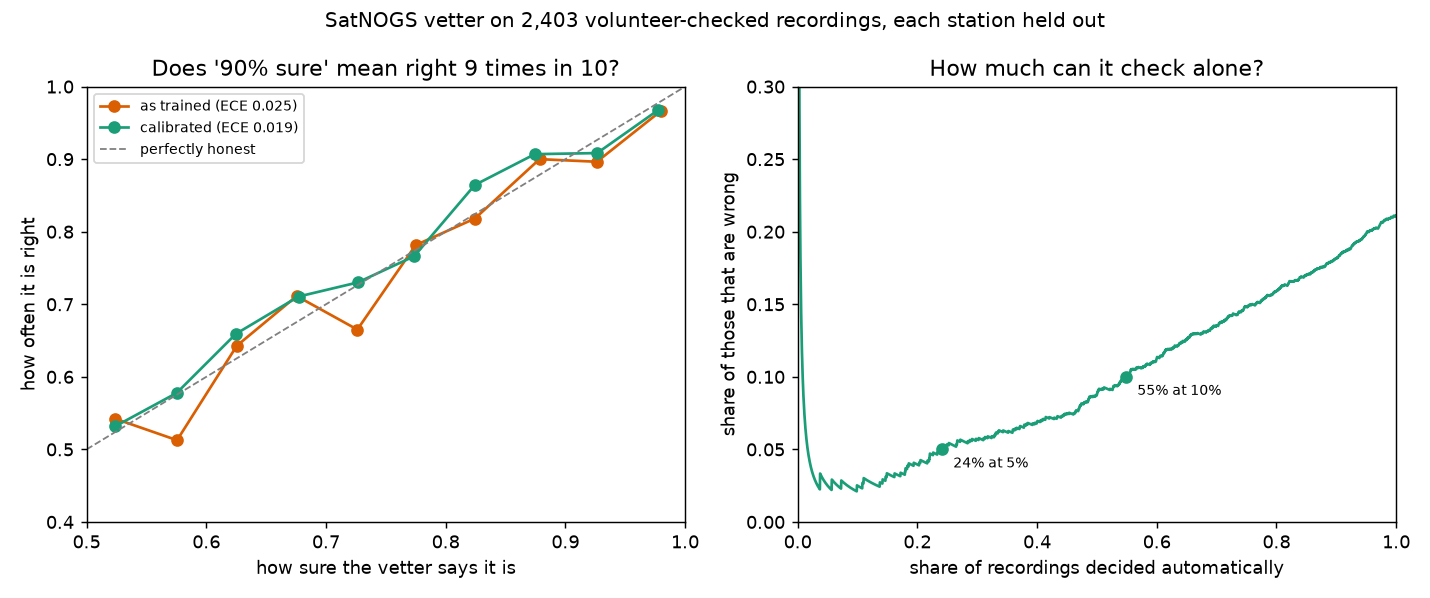
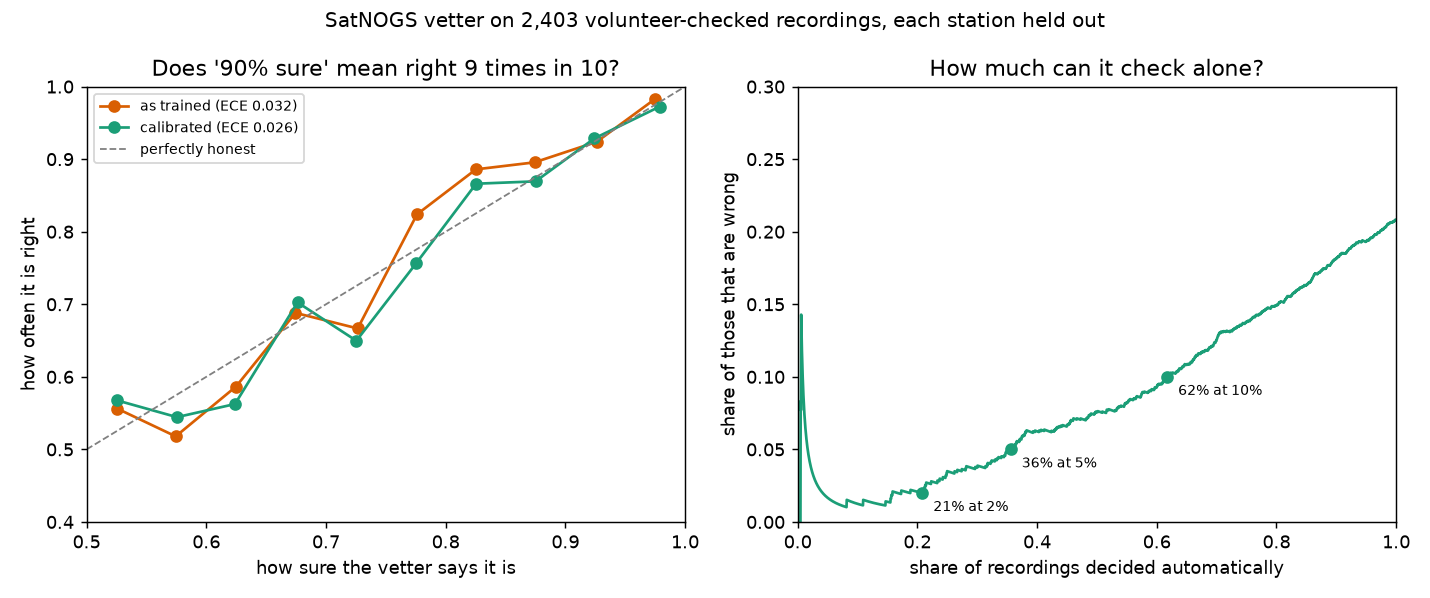
The app now decides with the random forest and the CNN together
VetterBundle gains the 2-D ResNet CNN: five out-of-fold trainings (whole
stations held out) give honest combined scores, and a final CNN is
trained on everything (early-stopped on held-out stations). The app
averages the two models' probabilities and temperature-scales the
result (T = 0.92: the average was slightly under-confident). The reasons
in words still come from the forest's measurements. A missing or damaged
CNN file falls back to the forest alone; --no-cnn builds that.

On 2,403 recordings, stations held out: AUROC 0.866 -> 0.879; decided
alone at <=5% error 29% -> 38% (range 20-59%), at <=1% 0% -> 19%. At the
app's thresholds: 42% decided alone, 5.8% of those wrong (was 37%, 6.1%).
Loading the model with PyTorch takes 0.9 s; scoring 75 recordings 0.3 s.

diff --git a/satrecovery/vetting/bundle.py b/satrecovery/vetting/bundle.py
@@ -3,8 +3,11 @@
 Training needs thousands of volunteer-checked waterfalls (hundreds of MB).
 Using the result needs only a few things, all saved together here:
 
-* the forest itself;
-* the explainer's typical values (for the reasons in words);
+* the forest itself, and the CNN that reads the waterfall picture (their
+  probabilities are averaged: the six-model comparison found the pair
+  better than either alone, on every seed);
+* the explainer's typical values (for the reasons in words; these come
+  from the forest's measurements);
 * the **out-of-fold** scores of every training observation -- each from a
   forest that never saw that observation's station -- with the
   volunteers' answers, so "error when sure" and "share it can check
@@ -55,6 +58,49 @@ def apply_temperature(probability: np.ndarray, temperature: float) -> np.ndarray
     return np.where(says_signal, calibrated, 1 - calibrated)
 
 
+CNN_FILE = "vetter_cnn.pt"
+
+
+def waterfall_images(observations, cache: ArtifactCache) -> np.ndarray:
+    """Normalised waterfalls at the CNN's 128 x 128 (2 x 2 averaging of the stored 256 x 256)."""
+    from .dataset import normalise
+
+    stack = []
+    for obs in observations:
+        power = normalise(cache.waterfall(obs).power)
+        height, width = power.shape
+        stack.append(power[:height // 2 * 2, :width // 2 * 2]
+                     .reshape(height // 2, 2, width // 2, 2).mean(axis=(1, 3))[None])
+    return np.stack(stack).astype(np.float32) if stack else np.empty((0, 1, 128, 128), np.float32)
+
+
+def train_cnn(images: np.ndarray, targets: np.ndarray, groups: np.ndarray, epochs: int = 30, seed: int = 0):
+    """A WaterfallVetter, early-stopped on a slice of stations it does not train on."""
+    from sklearn.model_selection import GroupShuffleSplit
+
+    from .model import WaterfallVetter
+
+    fit, val = next(GroupShuffleSplit(n_splits=1, test_size=0.15, random_state=seed)
+                    .split(images, targets, groups))
+    model = WaterfallVetter(seed=seed)
+    model.fit(images[fit], targets[fit], validation=(images[val], targets[val]), epochs=epochs,
+              verbose=False, patience=6)
+    return model
+
+
+def cnn_out_of_fold(images: np.ndarray, targets: np.ndarray, groups: np.ndarray, folds: int = 5,
+                    epochs: int = 30, seed: int = 0, progress=None) -> np.ndarray:
+    """P(signal) from a CNN that never saw that recording's station, for every recording."""
+    from sklearn.model_selection import GroupKFold
+
+    out = np.full(len(targets), 0.5)
+    for k, (train, test) in enumerate(GroupKFold(folds).split(images, targets, groups), 1):
+        out[test] = train_cnn(images[train], targets[train], groups[train], epochs, seed).predict_proba(images[test])
+        if progress:
+            progress(k, folds)
+    return out
+
+
 #: Observations worth showing in a demo (each explained by the orbit physics).
 SHOWCASE = (15489000, 15490378)
 
@@ -69,25 +115,48 @@ class VetterBundle:
     showcase: tuple[Observation, ...] = ()
     temperature: float = 1.0          # TemperatureScaling (the original project's), fitted on out-of-fold
     oof_station: np.ndarray | None = None
+    cnn: object | None = None         # a WaterfallVetter, or None: forest alone
+    oof_forest: np.ndarray | None = None   # the forest's own out-of-fold scores, for comparison
 
     FILES = ("vetter_bundle.pt", "vetter_bundle.npz", "vetter_bundle.json")
 
     # ------------------------------------------------------------------
     @classmethod
-    def train(cls, observations: Iterable[Observation], cache: ArtifactCache, progress=None) -> "VetterBundle":
+    def train(cls, observations: Iterable[Observation], cache: ArtifactCache, progress=None,
+              cnn: bool = True, epochs: int = 30, cnn_progress=None) -> "VetterBundle":
         labelled = [o for o in observations if o.is_trainable]
         kept, features = FeatureStore(cache).get(labelled, progress)
         if len(kept) < 50:
             raise ValidationError("observations", len(kept), "need at least 50 labelled, downloaded waterfalls")
         targets = np.array([1 if o.waterfall_label is WaterfallLabel.SIGNAL else 0 for o in kept])
-        probability = out_of_fold(features, targets, [o.ground_station for o in kept])
+        stations = np.array([o.ground_station if o.ground_station is not None else -1 for o in kept])
+        forest_oof = out_of_fold(features, targets, stations)
         model = FeatureVetter()
         model.fit_features(features, targets)
         explainer = Explainer(features, targets, model.importances())
         showcase = tuple(o for o in kept if o.id in SHOWCASE)
+        network, probability = None, forest_oof
+        if cnn:
+            images = waterfall_images(kept, cache)
+            cnn_oof = cnn_out_of_fold(images, targets, stations, epochs=epochs, progress=cnn_progress)
+            probability = (forest_oof + cnn_oof) / 2.0
+            network = train_cnn(images, targets, stations, epochs)
         temperature = fit_temperature(probability, targets)
-        stations = np.array([o.ground_station if o.ground_station is not None else -1 for o in kept])
-        return cls(model, explainer, probability, targets, time.time(), showcase, temperature, stations)
+        return cls(model, explainer, probability, targets, time.time(), showcase, temperature, stations,
+                   network, forest_oof)
+
+    # ------------------------------------------------------------------
+    def predict(self, features: np.ndarray, images: np.ndarray | None = None) -> np.ndarray:
+        """Calibrated P(signal): the forest and (if present) the CNN averaged, then temperature-scaled."""
+        probability = self.model.predict_proba_features(features)
+        if self.cnn is not None and images is not None and len(images):
+            probability = (probability + self.cnn.predict_proba(images)) / 2.0
+        return self.calibrate(probability)
+
+    @property
+    def description(self) -> str:
+        what = "Random forest + CNN" if self.cnn is not None else "Random forest"
+        return f"{what}, trained on {self.n_train:,} volunteer-checked observations"
 
     # ------------------------------------------------------------------
     def calibrate(self, probability: np.ndarray) -> np.ndarray:
@@ -120,6 +189,12 @@ class VetterBundle:
         folder.mkdir(parents=True, exist_ok=True)
         self.model.save(folder / self.FILES[0])
         extra = {"oof_station": self.oof_station} if self.oof_station is not None else {}
+        if self.oof_forest is not None:
+            extra["oof_forest"] = self.oof_forest
+        if self.cnn is not None:
+            self.cnn.save(folder / CNN_FILE)
+        elif (folder / CNN_FILE).exists():
+            (folder / CNN_FILE).unlink()   # a forest-only bundle must not pick up an old CNN
         np.savez(folder / self.FILES[1], oof_probability=self.oof_probability, oof_target=self.oof_target,
                  **extra, **self.explainer.to_arrays())
         (folder / self.FILES[2]).write_text(json.dumps({
@@ -142,7 +217,16 @@ class VetterBundle:
             explainer = Explainer.from_arrays(arrays)
             probability, target = arrays["oof_probability"].copy(), arrays["oof_target"].copy()
             stations = arrays["oof_station"].copy() if "oof_station" in arrays.files else None
+            forest_oof = arrays["oof_forest"].copy() if "oof_forest" in arrays.files else None
         meta = json.loads((folder / cls.FILES[2]).read_text(encoding="utf-8"))
         showcase = tuple(Observation.from_dict(d) for d in meta.get("showcase", []))
+        network = None
+        if (folder / CNN_FILE).exists():
+            try:
+                from .model import WaterfallVetter
+
+                network = WaterfallVetter.from_file(folder / CNN_FILE)
+            except Exception:  # noqa: BLE001 - no PyTorch, or a damaged file: run on the forest alone
+                network = None
         return cls(model, explainer, probability, target, float(meta.get("trained_at", 0)), showcase,
-                   float(meta.get("temperature", 1.0)), stations)
+                   float(meta.get("temperature", 1.0)), stations, network, forest_oof)

diff --git a/tests/test_vetting_bundle.py b/tests/test_vetting_bundle.py
@@ -45,7 +45,7 @@ def trained(tmp_path):
         obs = observation(i, "with-signal" if i % 2 else "without-signal")
         manifest.add(obs)
         WaterfallImage(synthetic(bool(i % 2), rng)).save(cache.waterfall_path(obs))
-    return VetterBundle.train(manifest, cache), cache, tmp_path, rng
+    return VetterBundle.train(manifest, cache, cnn=False), cache, tmp_path, rng
 
 
 class TestBundle:
@@ -225,3 +225,57 @@ def test_link_panel_timeline_and_globe_draw_a_real_pass():
             widget.set_time(1000.0, 1.0, "a subtitle")
         assert not widget.grab().isNull()
     app.processEvents()
+
+
+
+class TestCombinedBundle:
+    """The app's model: the forest and the CNN averaged, with a forest-only fallback."""
+
+    def test_trains_saves_and_scores_with_the_cnn(self, tmp_path):
+        from satrecovery.vetting.bundle import CNN_FILE
+
+        rng = np.random.default_rng(11)
+        cache = ArtifactCache(tmp_path)
+        manifest = Manifest(tmp_path / "manifest.jsonl")
+        for i in range(1, 81):
+            obs = observation(i, "with-signal" if i % 2 else "without-signal")
+            manifest.add(obs)
+            WaterfallImage(synthetic(bool(i % 2), rng)).save(cache.waterfall_path(obs))
+        bundle = VetterBundle.train(manifest, cache, cnn=True, epochs=2)
+        assert bundle.cnn is not None and bundle.oof_forest is not None
+        assert "CNN" in bundle.description
+        # The stored out-of-fold scores are the average of the two models' own.
+        assert not np.allclose(bundle.oof_probability, bundle.oof_forest)
+        bundle.save(tmp_path / "m")
+        assert (tmp_path / "m" / CNN_FILE).exists()
+
+        again = VetterBundle.load(tmp_path / "m")
+        assert again.cnn is not None
+        session = VettingSession.from_bundle(again, [], cache)
+        fresh = observation(900)
+        WaterfallImage(synthetic(True, rng)).save(cache.waterfall_path(fresh))
+        added = session.add([fresh])
+        assert len(added) == 1 and 0.0 <= added[0].probability <= 1.0
+
+    def test_forest_only_bundle_drops_an_old_cnn_and_still_works(self, trained):
+        from satrecovery.vetting.bundle import CNN_FILE
+
+        bundle, cache, root, rng = trained
+        (root / "m").mkdir()
+        (root / "m" / CNN_FILE).write_bytes(b"left over from an earlier build")
+        bundle.save(root / "m")
+        assert not (root / "m" / CNN_FILE).exists()
+        again = VetterBundle.load(root / "m")
+        assert again.cnn is None and "CNN" not in again.description
+        session = VettingSession.from_bundle(again, [], cache)
+        fresh = observation(901)
+        WaterfallImage(synthetic(True, rng)).save(cache.waterfall_path(fresh))
+        assert len(session.add([fresh])) == 1
+
+    def test_a_damaged_cnn_file_falls_back_to_the_forest(self, trained):
+        from satrecovery.vetting.bundle import CNN_FILE
+
+        bundle, cache, root, _ = trained
+        bundle.save(root / "m2")
+        (root / "m2" / CNN_FILE).write_bytes(b"not a model")
+        assert VetterBundle.load(root / "m2").cnn is None

diff --git a/scripts/build_vetter_bundle.py b/scripts/build_vetter_bundle.py
@@ -1,7 +1,8 @@
 #!/usr/bin/env python3
 """Train the vetter on every downloaded, volunteer-checked observation and save it for the app.
 
-    python scripts/build_vetter_bundle.py
+    python scripts/build_vetter_bundle.py            # forest + CNN (a few minutes)
+    python scripts/build_vetter_bundle.py --no-cnn   # forest alone (seconds)
 
 Saves ``satrecovery_data/models/vetter_bundle.*``.  After that the app runs
 from the bundle plus the latest recordings it fetches itself; the training
@@ -29,13 +30,16 @@ def main() -> int:
     started = time.time()
     manifest = Manifest(data / "manifest.jsonl")
     print(f"Training on up to {len(manifest)} volunteer-checked observations ...")
-    bundle = VetterBundle.train(manifest, ArtifactCache(data),
-                                progress=lambda done, total: print(f"  measured {done}/{total}", flush=True))
+    bundle = VetterBundle.train(
+        manifest, ArtifactCache(data), cnn="--no-cnn" not in sys.argv,
+        progress=lambda done, total: print(f"  measured {done}/{total}", flush=True),
+        cnn_progress=lambda k, n: print(f"  CNN, stations held out: fold {k}/{n}", flush=True))
     folder = bundle.save(ROOT / "satrecovery_data" / "models")
     policy = Policy()
     error, sure = bundle.measured_error(policy)
     print(f"Trained on {bundle.n_train}.  At thresholds {policy.low}/{policy.high}: decides {bundle.automatable(policy):.0%} "
           f"alone, {error:.1%} of those wrong (each scored with its station held out, {sure} confident answers).")
+    print(f"Model: {bundle.description}")
     print(f"Showcase examples kept: {[o.id for o in bundle.showcase]}")
     print(f"Saved to {folder} in {time.time() - started:.0f} s")
     return 0

diff --git a/satrecovery/vetting/session.py b/satrecovery/vetting/session.py
@@ -342,8 +342,7 @@ class VettingSession:
                     policy: Policy = Policy(), log_path: str | Path | None = None, progress=None) -> "VettingSession":
         """The app's normal start: a saved, trained vetter and whatever recordings are at hand."""
         session = cls([], cache, bundle.explainer, policy, DecisionLog(log_path),
-                      model_name=f"Forest on {len(FEATURES)} measurements, trained on {bundle.n_train:,} "
-                                 f"volunteer-checked observations", model=bundle.model, bundle=bundle)
+                      model_name=bundle.description, model=bundle.model, bundle=bundle)
         session.add(list(observations), progress)
         return session
 
@@ -355,9 +354,15 @@ class VettingSession:
         kept, features = FeatureStore(self._cache).get(fresh, progress)
         if not kept:
             return []
-        probability = self._model.predict_proba_features(features)
         if self._bundle is not None:
-            probability = self._bundle.calibrate(probability)
+            images = None
+            if self._bundle.cnn is not None:
+                from .bundle import waterfall_images
+
+                images = waterfall_images(kept, self._cache)
+            probability = self._bundle.predict(features, images)
+        else:
+            probability = self._model.predict_proba_features(features)
         items = [Item(o, float(p), self.policy.verdict(float(p)), f) for o, p, f in zip(kept, probability, features)]
         self._all.extend(items)
         self._by_id.update({i.obs.id: i for i in items})
